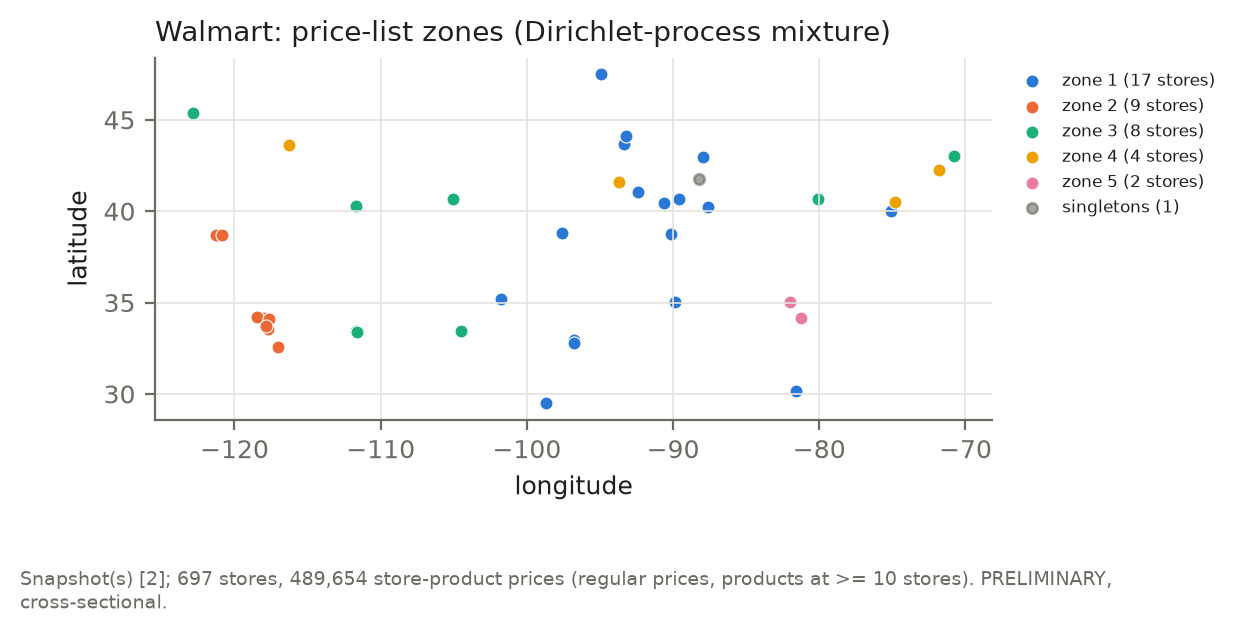
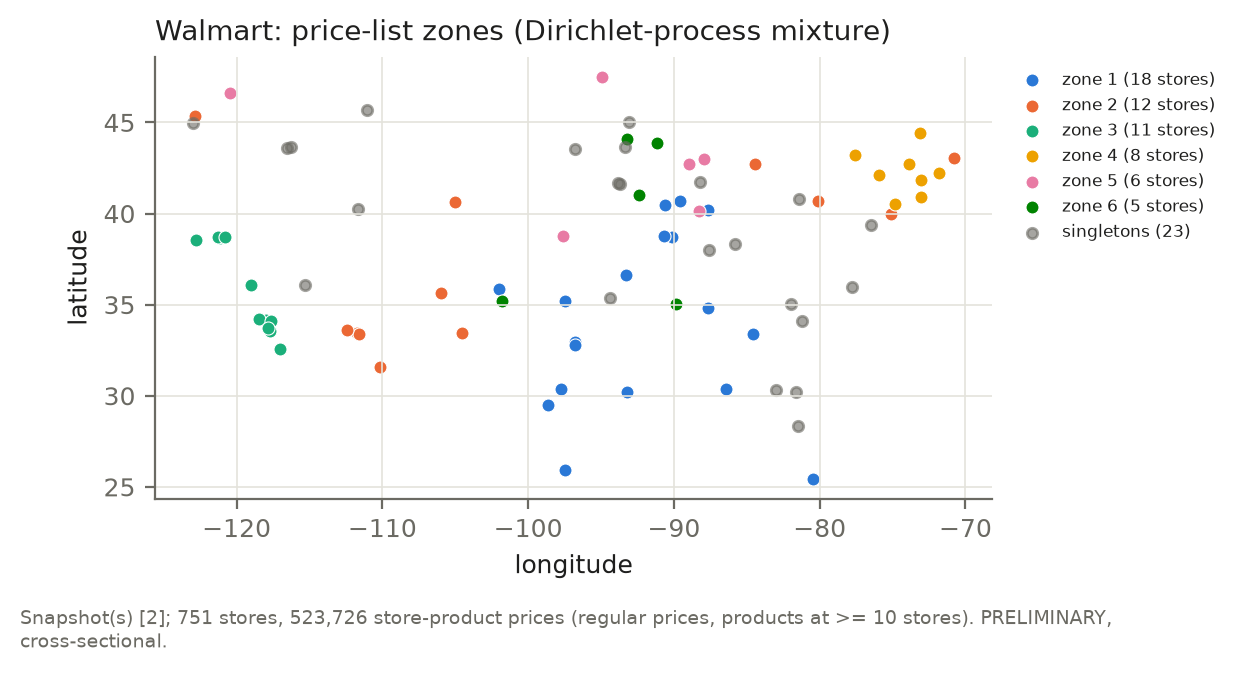
Walmart at 83 stores: still no replicable zones (gradient confirmed); coverage table updated

diff --git a/paper/writeup.md b/paper/writeup.md
@@ -73,8 +73,8 @@ We use regular prices to the cent, and only rows the retailer ties to the reques
 | Costco | 175 | 100% | Instacart |
 | Kroger family | 192 | 96% | official API; banner sample in progress (about 270) |
 | Meijer | 83 | 100% | Michigan core (its locator blocks automated use) |
-| Walmart | 42 | 99% | stopped at a captcha |
-| Target | 16 | 16 matched items | short budgeted sessions |
+| Walmart | 84 | 99% | all 250 anchors (extended Oct 6–7) |
+| Target | 28 | 16 matched items | short budgeted sessions (ongoing) |
 
 **Timestamps and panels.** Kroger's API gives every price an *effective* and a scheduled
 *expiration* timestamp; Meijer gives a sale's end date. The pre-registered event panels
@@ -137,15 +137,15 @@ that distance alone creates in a naive comparison).
 
 ## 4. Results: space
 
-| | ALDI (204) | Walmart (41) | Costco (174) | Kroger (191) |
+| | ALDI (204) | Walmart (83) | Costco (174) | Kroger (191) |
 |---|---|---|---|---|
-| Prices at list | 91% | 91% | 76% | 65% |
-| Departures upward (median) | 19% (−7.9%) | 76% (+4.8%) | 50% (+0.3%) | 66% (+4.5%) |
-| $\delta$: stores < 50 km apart → > 2,000 km apart | 6.5% → 20% | 5.3% → 21% | 8.9% → 36% | 20% → 63% |
+| Prices at list | 91% | 92% | 76% | 65% |
+| Departures upward (median) | 19% (−7.9%) | 75% (+4.9%) | 50% (+0.3%) | 66% (+4.5%) |
+| $\delta$: stores < 50 km apart → > 2,000 km apart | 6.5% → 20% | 5.0% → 17% | 8.9% → 36% | 20% → 63% |
 | Variogram range | no plateau | no plateau | ≈ 850 km | no plateau* |
-| Zones | 10; largest 79 stores, 27 states | 5 (not robust) | 18 regional | 28, division-aligned |
-| Nearby stores in the same zone vs permuted | 50% vs 20% | 78% vs 25% | 50% vs 6% | 48% vs 5% |
-| Split-half replication (ARI) | 0.52–0.54 | 0.41–0.53 | 0.96 | 0.90–0.98* |
+| Zones | 10; largest 79 stores, 27 states | 12 (not robust) | 18 regional | 28, division-aligned |
+| Nearby stores in the same zone vs permuted | 50% vs 20% | 59% vs 10% | 50% vs 6% | 48% vs 5% |
+| Split-half replication (ARI) | 0.52–0.54 | 0.09–0.41 | 0.96 | 0.90–0.98* |
 
 All spatial-coherence p = 0.001. *Kroger, 191 stores (banner sample in progress). Its
 variogram had a plateau at about 240 km on the first 121 stores; with distant divisions
@@ -160,9 +160,11 @@ between stores. Bands are 95% store-bootstrap intervals.*
 - **ALDI** runs one national list over most of the country, with regional zones
   (California, the Mid-Atlantic, Texas, Arizona/Nevada) (Figure 2). Its departures are
   mostly markdowns.
-- **Walmart** has no identical store lists. Dissimilarity rises slowly with distance, with
-  distinct West Coast and Mountain groups. Departures are mostly upward. Its specific zone
-  map does not replicate at 41 stores, but the gradient does.
+- **Walmart** has no identical store lists. Dissimilarity rises slowly and steadily with
+  distance (5% for nearby stores, 17% across the country), and departures are mostly
+  upward. Doubling the sample to 83 stores did **not** make discrete zones appear: the zone
+  map still does not replicate (split-half ARI 0.09–0.41). Walmart prices on a gradient,
+  not in zones.
 - **Costco on Instacart** forms about 18 regional zones on a scale of about 850 km. They
   replicate almost perfectly: split-half ARI 0.96, and ARI 0.99 across priors.
 - **Kroger** is the most local at short range (Figure 3). Stores within 100 km differ on

diff --git a/docs/PROGRESS.md b/docs/PROGRESS.md
@@ -777,3 +777,11 @@ simulation was not rerun because it is slow.
   about 9,570, under 9,800. No delay needed.
 - Kroger after pass waits for 10:00 (or the owner's return); Meijer after at 07:00;
   Walmart panel visit at 08:00.
+- **Walmart at 83 stores (Module E + zone sensitivity, 06:07):**
+  - 92% at list; departures 75% up (median +4.9%); δ 5% → 17% with distance; no
+    variogram plateau.
+  - 12 zones, coherent in space (59% vs 10%) but **not replicable** (split-half ARI
+    0.09–0.41; prior γ 0.5–5 gives 15–5 zones).
+  - Doubling the sample confirms Walmart prices on a gradient, not in zones.
+  - Write-up updated (results table, architecture text, coverage table: Walmart 84,
+    Target 28).
